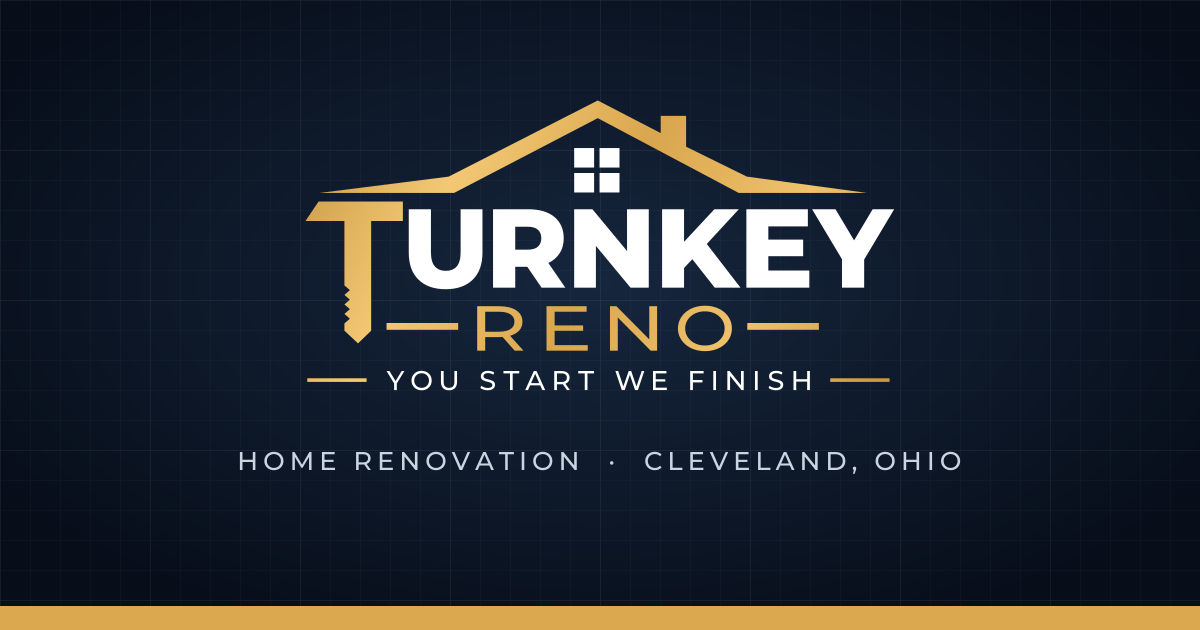
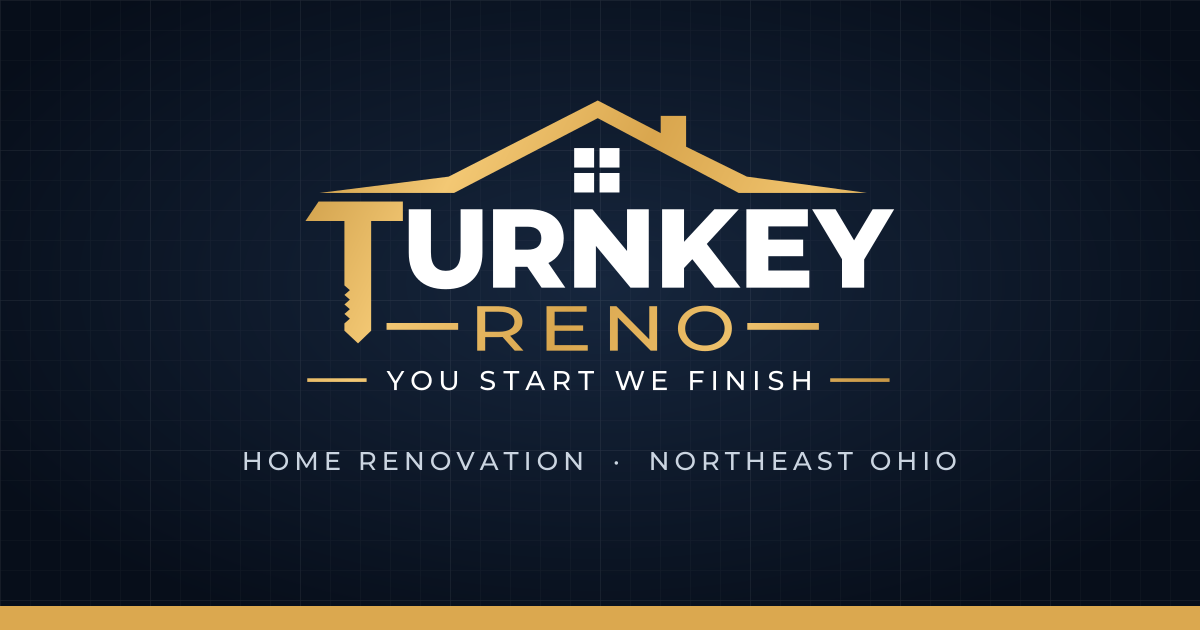
Client content round: Northeast Ohio service area, new copy, form fields
- Service area changed from Cleveland to Northeast Ohio across copy, SEO,
  JSON-LD (AdministrativeArea), footer, README and the OG image
- Hero, Services, Why Us, Projects, Tips and estimate copy updated to
  client-final text; services and tips no longer marked placeholder
- Why Us: 8 advantages in a 2-column grid with a sticky left column
- Tips: 6 tips in a 3x2 grid with category tags
- Projects: optional captions (work type + city) on thumbnails and in the
  lightbox; empty captions render nothing; section badge removed
- Estimate form: optional 'I am a...' and budget fields, email optional,
  business email and service area under the phone number
- PlaceholderBadge now defaults to hidden

Changed region(s): [[0.185, 0.6937, 0.4933, 0.754], [0.5242, 0.6937, 0.8017, 0.754]]

diff --git a/src/data/site.ts b/src/data/site.ts
@@ -38,7 +38,8 @@ export const company = {
   phoneDisplay: '(440) 337-5140',
   /** E.164 format, used for tel: links and schema. */
   phoneE164: '+14403375140',
-  email: '', // e.g. 'info@turnkeyreno.com'. Leave empty to hide.
+  /** Shown in the estimate section and footer, and added to the schema. Leave empty to hide. */
+  email: 'turnkeyrenousa@gmail.com',
   address: {
     street: '6545 Market Ave. North',
     suite: 'STE 100',
@@ -47,9 +48,10 @@ export const company = {
     postalCode: '44721',
     country: 'US',
   },
-  serviceArea: 'Cleveland, OH and surrounding suburbs',
-  /** Cities listed as areaServed in the LocalBusiness schema. */
-  areaServed: ['Cleveland, OH'],
+  /** Shown as "Serving <serviceArea>" in the footer and estimate section. */
+  serviceArea: 'Northeast Ohio',
+  /** Regions listed as areaServed in the LocalBusiness schema. */
+  areaServed: ['Northeast Ohio'],
 };
 
 /* ── Brand assets ─────────────────────────────────────────────────────────── */
@@ -81,12 +83,12 @@ export const brand = {
 /* ── SEO ──────────────────────────────────────────────────────────────────── */
 
 export const seo = {
-  title: 'Turnkey Reno | Home Renovation & Remodeling in Cleveland, OH',
+  title: 'Turnkey Reno | Home Renovation & Remodeling in Northeast Ohio',
   description:
-    'Cleveland home renovation and remodeling for homeowners and real estate investors. Kitchens, bathrooms, basements, flooring and more. Call (440) 337-5140 for a free estimate.',
-  /** Path inside /public. Replace with a real 1200×630 PNG or JPG before launch. */
+    'Northeast Ohio home renovation and remodeling for homeowners and real estate investors. Kitchens, bathrooms, basements, flooring and more. Call (440) 337-5140 for a free estimate.',
+  /** Path inside /public. Built by scripts/build-logo.mjs (1200×630). */
   ogImage: '/og-image.png',
-  ogImageAlt: 'Turnkey Reno: home renovation in Cleveland, Ohio',
+  ogImageAlt: 'Turnkey Reno: home renovation in Northeast Ohio',
   locale: 'en_US',
   themeColor: '#070e1a',
 };
@@ -104,13 +106,13 @@ export const nav = [
 /* ── Hero ─────────────────────────────────────────────────────────────────── */
 
 export const hero = {
-  eyebrow: 'Cleveland Home Renovation',
+  eyebrow: 'Northeast Ohio Home Renovation',
   // The headline is company.slogan. Text after the comma is highlighted.
   subheading:
-    'Renovation and remodeling for homeowners and real estate investors across Cleveland and the surrounding suburbs, done right from start to finish.',
+    "Full-service home renovation for homeowners and real estate investors across Ohio's suburbs. We plan your project around your budget, bring creative solutions to the table, and stay on the job until you're 100% satisfied.",
   primaryCta: 'Get a Free Estimate',
   secondaryCta: 'Call Now',
-  highlights: ['Free, no-obligation estimates', 'Homeowners & investors'],
+  highlights: ['Free, no-obligation estimates', 'Budget-based planning', 'Homeowners & investors'],
   image: {
     src: 'hero/hero.svg', // placeholder: replace with a wide project photo (≥ 2400px)
     alt: '',              // decorative background; leave empty unless it conveys information
@@ -138,7 +140,7 @@ export const trustPoints: { title: string; text: string; icon: IconName }[] = [
 export const servicesIntro = {
   eyebrow: 'What we do',
   heading: 'Renovation services',
-  text: 'From a single room to a full rehab, we handle the work that turns a house into the home, or the rental, you want.',
+  text: 'From a single room to a full rehab, we plan every project around your goals and your budget, and handle the work that turns a house into the home, or the rental, you want.',
 };
 
 export interface Service {
@@ -155,42 +157,36 @@ export const services: Service[] = [
     title: 'Interior Remodeling',
     description: 'Full and partial interior updates (layouts, trim, finishes and paint) planned and managed from start to finish.',
     icon: 'paint',
-    placeholder: true,
   },
   {
     id: 'kitchen',
     title: 'Kitchen Remodeling',
     description: 'Cabinets, countertops, backsplash, lighting and layout changes for a kitchen that works the way you live.',
     icon: 'kitchen',
-    placeholder: true,
   },
   {
     id: 'bathroom',
     title: 'Bathroom Remodeling',
     description: 'Tile, vanities, fixtures and tub-to-shower conversions, from a quick refresh to a complete gut renovation.',
     icon: 'bath',
-    placeholder: true,
   },
   {
     id: 'basement',
     title: 'Basement Finishing',
-    description: 'Turn unused basement space into a family room, home office, guest suite or extra rental living area.',
+    description: 'Turn an unused basement into a family room, home office, guest suite or extra rental space, finished right and built to stay dry.',
     icon: 'stairs',
-    placeholder: true,
   },
   {
     id: 'flooring',
     title: 'Flooring',
     description: 'Luxury vinyl plank, tile, laminate and hardwood, installed over a properly prepared, level subfloor.',
     icon: 'floor',
-    placeholder: true,
   },
   {
     id: 'drywall-framing',
     title: 'Drywall & Framing',
     description: 'New walls, repairs and finishing: framing, hanging, taping and texture done clean and straight.',
     icon: 'framing',
-    placeholder: true,
   },
 ];
 
@@ -200,14 +196,20 @@ export const about = {
   eyebrow: 'Why choose us',
   heading: 'Done right, from start to finish.',
   paragraphs: [
-    'We are a Cleveland-based home renovation company serving homeowners and investors throughout Cleveland and the surrounding suburbs. We specialize in residential renovations and remodeling, with a strong focus on quality workmanship, honest pricing, and reliable service.',
-    'We believe every project should be done right from start to finish. We pay attention to the details, use quality materials, and stand behind our work. Our goal is to provide a smooth, professional experience and results our customers can be proud of.',
+    "We're a Northeast Ohio home renovation company serving homeowners and real estate investors across Ohio's suburbs. We specialize in residential renovation and remodeling, with a strong focus on quality workmanship, honest pricing and reliable service.",
+    "Every project starts with listening. We sit down with you, plan the renovation around your goals and your budget, and bring creative solutions that get you more for your money. Then we stay on the job until it's done right and you're completely satisfied.",
   ],
+  /** Advantages grid: 2 columns × 4 rows on desktop, 1 column on mobile. Titles render uppercase. */
   values: [
-    { title: 'Quality workmanship', text: 'Attention to the details that make a renovation last.' },
-    { title: 'Honest pricing', text: 'Clear estimates and straightforward communication.' },
-    { title: 'Reliable service', text: 'We keep you informed and see the job through.' },
-    { title: 'We stand behind our work', text: 'Results you can be proud of, built with quality materials.' },
+    { title: 'Creative, budget-based planning', text: 'We design the project with you, around the budget you set.' },
+    { title: 'Transparent estimates', text: 'Detailed, honest pricing. No surprises halfway through.' },
+    { title: 'One point of contact', text: 'One person who knows your project from first visit to final walkthrough.' },
+    { title: 'Photo progress updates', text: 'Regular updates with photos, so you always know where things stand, even from out of state.' },
+    { title: 'Investor-smart renovations', text: 'Upgrades chosen for return, whether you plan to rent or sell.' },
+    { title: 'On schedule', text: 'Realistic timelines, and we stick to them.' },
+    { title: 'Clean, respectful job sites', text: 'We treat your home like our own and clean up every day.' },
+    // CONFIRM WITH CLIENT before launch: licensed + insured must be true.
+    { title: 'Licensed, insured & guaranteed', text: "We stand behind our work until you're satisfied." },
   ],
   ctaText: 'Talk to us about your project',
   /** Large faint outlined word behind the section (desktop only, decorative). Empty string hides it. */
@@ -219,26 +221,33 @@ export const about = {
 export const projectsIntro = {
   eyebrow: 'Our work',
   heading: 'Projects',
-  text: 'A look at the kind of renovations we take on. Tap any photo to view it larger.',
+  text: 'Real projects, real results. Click or tap any photo to see the full transformation.',
 };
 
 export interface Project {
   /** Path relative to src/assets/ (jpg, png, webp, avif or svg). */
   image: string;
+  /** Describes the photo for screen readers and search engines. */
   alt: string;
+  /**
+   * Short caption shown on the thumbnail and in the lightbox:
+   * work type + city, e.g. 'Kitchen Remodel · North Canton, OH'.
+   * Leave empty ('') until the real photo arrives; nothing is shown when empty.
+   */
   caption: string;
   placeholder?: boolean;
 }
 
+// Placeholder images: captions stay empty until real photos (with real locations) arrive.
 export const projects: Project[] = [
-  { image: 'projects/project-1.svg', alt: 'Placeholder for a kitchen remodel photo', caption: 'Kitchen Remodel', placeholder: true },
-  { image: 'projects/project-2.svg', alt: 'Placeholder for a bathroom renovation photo', caption: 'Bathroom Renovation', placeholder: true },
-  { image: 'projects/project-3.svg', alt: 'Placeholder for a finished basement photo', caption: 'Basement Finishing', placeholder: true },
-  { image: 'projects/project-4.svg', alt: 'Placeholder for a flooring installation photo', caption: 'Flooring Installation', placeholder: true },
-  { image: 'projects/project-5.svg', alt: 'Placeholder for an interior remodel photo', caption: 'Interior Remodel', placeholder: true },
-  { image: 'projects/project-6.svg', alt: 'Placeholder for an open living space photo', caption: 'Open Living Space', placeholder: true },
-  { image: 'projects/project-7.svg', alt: 'Placeholder for a tiled shower photo', caption: 'Walk-in Shower', placeholder: true },
-  { image: 'projects/project-8.svg', alt: 'Placeholder for a drywall and framing photo', caption: 'Drywall & Framing', placeholder: true },
+  { image: 'projects/project-1.svg', alt: 'Placeholder project photo 1', caption: '', placeholder: true },
+  { image: 'projects/project-2.svg', alt: 'Placeholder project photo 2', caption: '', placeholder: true },
+  { image: 'projects/project-3.svg', alt: 'Placeholder project photo 3', caption: '', placeholder: true },
+  { image: 'projects/project-4.svg', alt: 'Placeholder project photo 4', caption: '', placeholder: true },
+  { image: 'projects/project-5.svg', alt: 'Placeholder project photo 5', caption: '', placeholder: true },
+  { image: 'projects/project-6.svg', alt: 'Placeholder project photo 6', caption: '', placeholder: true },
+  { image: 'projects/project-7.svg', alt: 'Placeholder project photo 7', caption: '', placeholder: true },
+  { image: 'projects/project-8.svg', alt: 'Placeholder project photo 8', caption: '', placeholder: true },
 ];
 
 /* ── Tips corner ──────────────────────────────────────────────────────────── */
@@ -246,24 +255,40 @@ export const projects: Project[] = [
 export const tipsIntro = {
   eyebrow: 'Tips corner',
   heading: 'Before you renovate',
-  text: 'Practical advice for homeowners and investors planning their next project.',
+  text: 'Practical advice from the job site for homeowners and investors planning their next project.',
 };
 
-export const tips: { title: string; body: string; placeholder?: boolean }[] = [
+/** Tips grid: 3 columns × 2 rows on desktop, 1 column on mobile. `tag` is the small category label. */
+export const tips: { tag: string; title: string; body: string; placeholder?: boolean }[] = [
   {
+    tag: 'Budget',
     title: 'Build a cushion into your budget',
     body: 'Plan for 10–15% beyond your estimate. Older homes can hide surprises behind walls and under floors, and a cushion keeps the project moving.',
-    placeholder: true,
   },
   {
+    tag: 'Planning',
     title: 'Pick finishes before work starts',
     body: 'Choosing tile, fixtures and flooring up front keeps the schedule on track and avoids costly mid-project changes.',
-    placeholder: true,
   },
   {
+    tag: 'Investors',
     title: 'Investors: renovate for durability',
     body: 'Tough, easy-to-clean materials like luxury vinyl plank and quality paint reduce turnover costs between tenants.',
-    placeholder: true,
+  },
+  {
+    tag: 'Ohio Homes',
+    title: 'Fix water issues first',
+    body: 'In Ohio, basement moisture is common. Before finishing a basement or replacing floors, make sure gutters, grading and drainage are handled, or the problem comes back.',
+  },
+  {
+    tag: 'Seasonal',
+    title: 'Plan around the seasons',
+    body: 'Exterior work like roofing, siding and painting is best done spring through fall. Winter is a great time for kitchens, baths and basements.',
+  },
+  {
+    tag: 'Value',
+    title: 'Spend where it counts',
+    body: 'Kitchens, bathrooms and fresh flooring usually return the most when you sell or rent. Start there before cosmetic extras.',
   },
 ];
 
@@ -272,12 +297,16 @@ export const tips: { title: string; body: string; placeholder?: boolean }[] = [
 export const estimate = {
   eyebrow: 'Free estimate',
   heading: 'Tell us about your project',
-  text: "Send us a few details and we'll get back to you to talk through your project and set up your free estimate.",
+  // CONFIRM WITH CLIENT before launch: 24-hour response must be realistic.
+  text: "Send us a few details and we'll get back to you within 24 hours to talk through your project and set up your free estimate.",
   steps: [
     { title: 'Send your request', text: 'Fill out the form or give us a call.' },
     { title: 'We reach out', text: 'We contact you to discuss the details.' },
-    { title: 'Get your estimate', text: 'A clear, honest quote. Free, with no obligation.' },
+    { title: 'Get your estimate', text: 'A clear, detailed quote built around your budget. Free, with no obligation.' },
   ],
+  /** Optional form fields. Values are sent with the request exactly as written. */
+  customerTypes: ['Homeowner', 'Real estate investor'],
+  budgets: ['Under $10k', '$10k–$25k', '$25k–$50k', '$50k+', 'Not sure'],
   submitLabel: 'Request My Free Estimate',
   privacyNote: 'We only use your information to respond to your request.',
   successMessage: "Thanks! Your request was sent. We'll be in touch soon.",
@@ -303,5 +332,5 @@ export const formConfig = {
 /* ── Footer ───────────────────────────────────────────────────────────────── */
 
 export const footer = {
-  blurb: 'Residential renovation and remodeling for homeowners and investors in Cleveland and the surrounding suburbs.',
+  blurb: 'Residential renovation and remodeling for homeowners and real estate investors across Northeast Ohio.',
 };

diff --git a/README.md b/README.md
@@ -1,6 +1,6 @@
 # Turnkey Reno: marketing site
 
-One-page static site for a Cleveland home renovation company. The site has one goal: get visitors to **call** or **request a free estimate**.
+One-page static site for a Northeast Ohio home renovation company. The site has one goal: get visitors to **call** or **request a free estimate**.
 
 **Stack:** Astro 7 · Tailwind CSS 4 · TypeScript (strict) · fully static output, no backend.
 
@@ -86,7 +86,7 @@ accessKey: '',
 honeypotName: '_gotcha',
 ```
 
-The form validates on the client (name, phone, email, 5-digit zip and service are required) and then submits via `fetch` with an inline success/error message. Without JavaScript it falls back to a normal POST. A hidden honeypot field catches basic spam bots.
+The form validates on the client (name, phone, 5-digit zip and service are required; email, budget and "I am a…" are optional, and email is format-checked only when filled in) and then submits via `fetch` with an inline success/error message. Without JavaScript it falls back to a normal POST. A hidden honeypot field catches basic spam bots.
 
 ## Deploying
 
@@ -119,9 +119,11 @@ All release notes live in one file, [`CHANGELOG.md`](CHANGELOG.md) ([Keep a Chan
 - [ ] Privacy policy page added and linked in the footer (needed once the form collects data)
 - [ ] Sitemap added (`npx astro add sitemap`), then uncomment the `Sitemap:` line in `src/pages/robots.txt.ts`
 - [ ] OG image: `public/og-image.png` now uses the real logo. Optionally swap in a branded photo version (1200×630)
-- [ ] Real project photos and hero photo in `src/assets/`
+- [ ] Real project photos and hero photo in `src/assets/`, with real captions in `projects[]` (format: "Kitchen Remodel · North Canton, OH")
 - [x] Real logo and favicon (recreated as SVG from the client artwork)
-- [ ] Confirm the business address. The listed address is in Canton, OH while the copy says "Cleveland-based", and the address feeds the LocalBusiness schema used by local search.
+- [ ] Confirm "Licensed, insured & guaranteed" (Why Us, advantage 8) is true before publishing
+- [ ] Confirm the "within 24 hours" response promise (estimate section intro) is realistic
+- [ ] Consider a domain email (e.g. info@yourdomain.com) instead of the Gmail address
 - [ ] Test on a real phone: call button, menu, gallery, form
 
 ## Project structure
